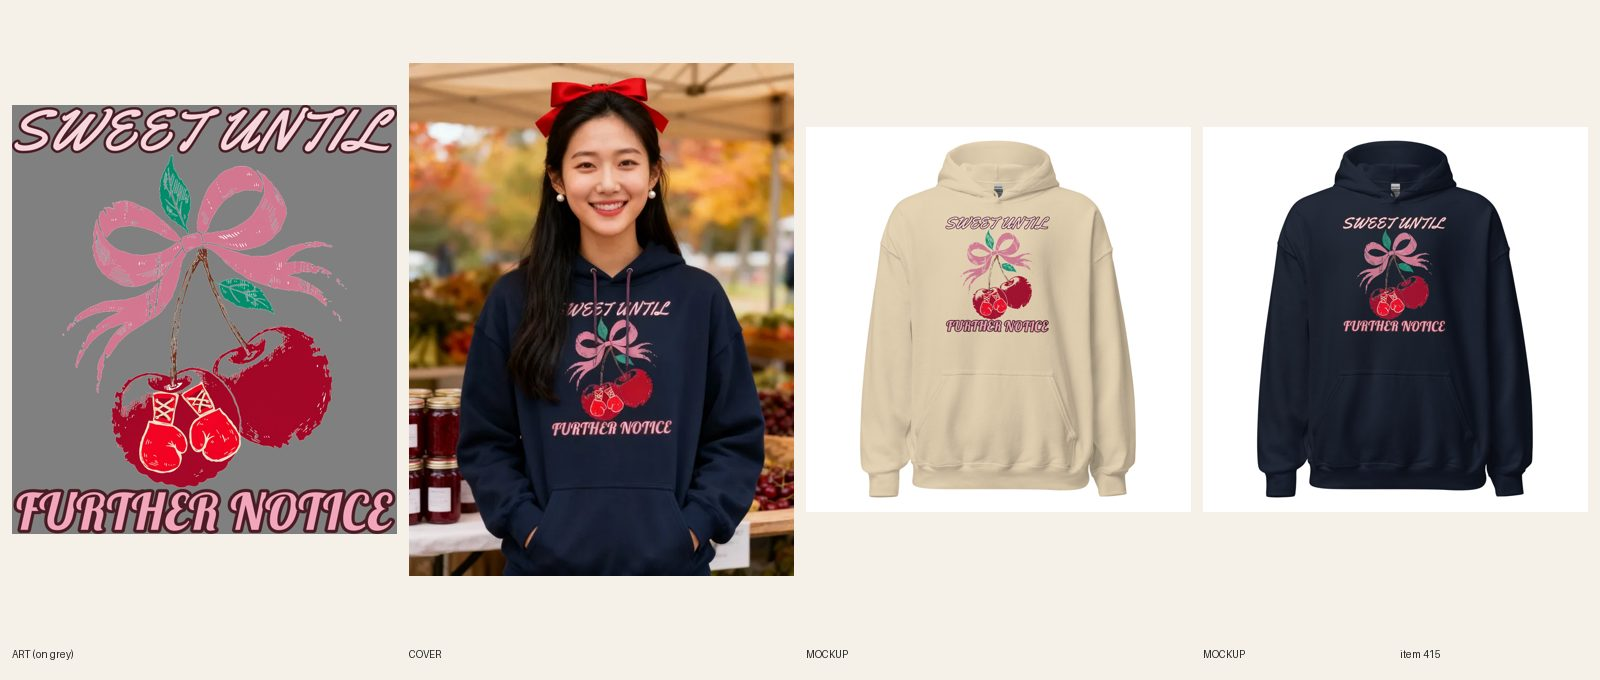
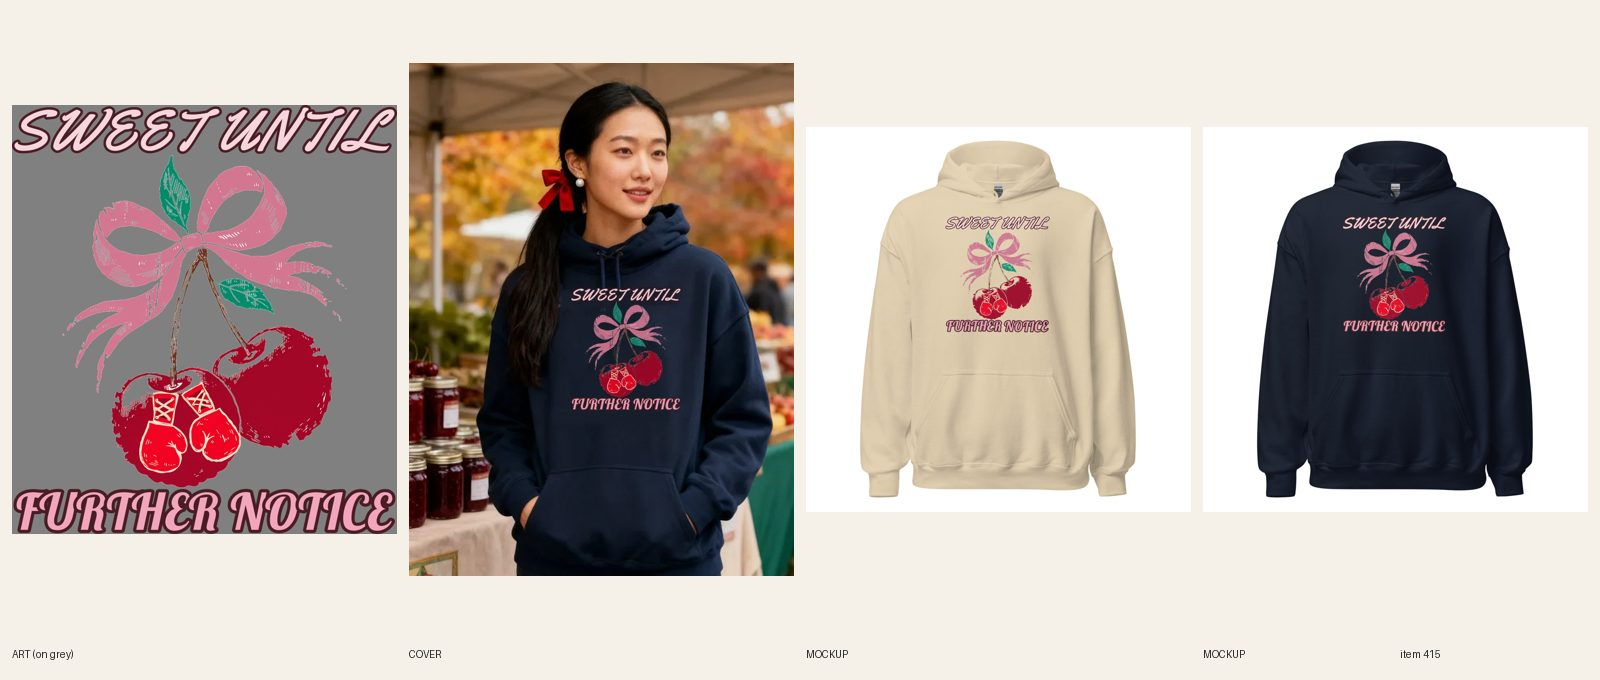
[C] review 415 cherry hoodie (composite cover, meta)

Changed region(s): [[0.25, 0.0926, 0.5, 0.8647]]

diff --git a/docs/pipeline/415-cherry-hoodie-cherry-picking-my-battles.md b/docs/pipeline/415-cherry-hoodie-cherry-picking-my-battles.md
@@ -1,4 +1,4 @@
-status: BUILDING [C] 2026-10-17 23:00
+status: REVIEW
 lane: C
 type: new
 id: 415
@@ -40,3 +40,4 @@ kd: 30
   1. R6.9 (hair): the S of SWEET is still hidden, the same defect as the last round. Don't regenerate: composite the exact print from the Navy mockup onto the best cover's chest in print-prep (perspective fit, multiply blend), with her hair moved behind the shoulder in that layer. Read SWEET UNTIL / FURTHER NOTICE letter by letter.
   2. Copy (R8.4/R8.6): the meta is 157 characters, so cut it to 155 or fewer. The copy says "Women's cut", but the Gildan 18500 is a unisex fit, so say that. Keep the built line SWEET UNTIL FURTHER NOTICE: it passes, and the brief's later rewrite is withdrawn.
   3. (Withdrawn by the director: "Original art, made for Graphic Tees Co." is the SOP line for ai-art and stays.)
+- 2026-10-17 23:01 UTC builder [C]: REDO done: cover now carries the exact print from the Navy mockup composited on the chest, shifted clear of her hair, old print cleared (SWEET UNTIL / FURTHER NOTICE read whole at zoom); SEO meta 151 chars and says Unisex fit. Line kept SWEET UNTIL FURTHER NOTICE. No fal spend.

diff --git a/docs/intake-log.md b/docs/intake-log.md
@@ -1,3 +1,4 @@
+2026-10-17 23:01 UTC — [C] REVIEW #415 (REDO: composite cover, meta fixed).
 2026-10-17 23:00 UTC — [C] REVIEW #281 (REDO: composite cover, copy fixes).
 RUNNING lane A since 2026-10-17 23:00 UTC
 RUNNING lane C since 2026-10-17 22:53 UTC
